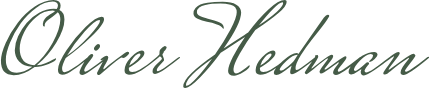
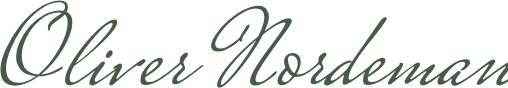
Rätta efternamnet till Nordeman i namnteckning och mejlsignatur

Changed region(s): [[0.0, 0.0, 1.0, 1.0], [0.7576, 0.1591, 0.7879, 0.25], [0.0606, 0.0455, 0.0909, 0.0682]]

diff --git a/index.html b/index.html
@@ -878,7 +878,7 @@ html.motion .me-sig.signed path{animation:sigDraw 2.2s cubic-bezier(.6,.05,.3,1)
         <ol><li>Ni fyller i formuläret – cirka en minut</li><li>Vi går igenom sajten</li><li>Ni får svar inom några arbetsdagar</li></ol>
         <div class="me">
           <div class="me-pic"><img src="oliver.jpg?v=2" alt="Oliver, grundare av Webbglans" width="84" height="84" loading="lazy"></div>
-          <div><p class="me-name">Oliver, Webbglans</p><p class="me-txt">Tvåbarnspappa och lärare med ett livslångt intresse för datorer och IT. Läraryrket har gett mig en känsla för pedagogik och för hur teknik blir enkel att använda – det är det jag tar med in i varje hemsida. Jag driver Webbglans från Holmsund, och ni pratar med mig hela vägen.</p><svg class="me-sig" viewBox="-39 -790 4434 976" role="img" aria-label="Oliver Hedmans namnteckning"><path pathLength="1" d="M596 -648Q647 -623 647 -551Q647 -454 564.5 -316.5Q482 -179 366 -86Q408 -88 453.5 -106.0Q499 -124 527.0 -141.0Q555 -158 558.5 -158.0Q562 -158 562 -150Q562 -130 486.0 -99.5Q410 -69 351 -69H344Q230 15 131 15Q65 15 33.0 -21.5Q1 -58 1.0 -131.0Q1 -204 49.5 -313.0Q98 -422 172.5 -518.5Q247 -615 346.0 -682.5Q445 -750 536 -750Q573 -750 590.5 -734.0Q608 -718 608.0 -693.0Q608 -668 596 -648ZM446 -498 447 -491Q447 -479 440 -479Q427 -479 427.0 -506.5Q427 -534 446.5 -557.0Q466 -580 503.0 -603.5Q540 -627 552 -638Q536 -642 526 -642Q440 -642 361.0 -577.5Q282 -513 237.0 -422.5Q192 -332 192 -256Q192 -96 341 -86Q447 -172 526.0 -313.0Q605 -454 605 -550Q605 -601 579 -624Q561 -604 525.5 -579.5Q490 -555 468.0 -535.5Q446 -516 446 -498ZM162 -10Q236 -10 320 -70Q230 -77 186.0 -124.0Q142 -171 142.0 -239.5Q142 -308 175.5 -381.5Q209 -455 262.0 -516.5Q315 -578 389.5 -619.0Q464 -660 539 -660Q554 -660 568 -657Q581 -676 581.0 -695.5Q581 -715 565.0 -724.0Q549 -733 528 -733Q447 -733 358.0 -668.5Q269 -604 203.0 -512.0Q137 -420 94.0 -316.5Q51 -213 51 -145Q51 -10 162 -10Z M880 -166Q887 -171 893.0 -171.0Q899 -171 899 -164V-162Q795 -76 741 -42Q671 11 623 11Q581 11 581 -39Q581 -106 667.5 -237.5Q754 -369 862.0 -474.0Q970 -579 1025 -579Q1050 -579 1050 -557Q1050 -502 918.5 -375.5Q787 -249 660 -160Q623 -89 623.0 -52.0Q623 -15 649.0 -15.0Q675 -15 717 -45Q788 -87 855 -145ZM1000 -547Q958 -547 851.0 -426.0Q744 -305 674 -184Q789 -266 899.0 -384.5Q1009 -503 1009 -538Q1009 -547 1000 -547Z M988.5 -302.0Q998 -302 1003.5 -296.0Q1009 -290 1009.0 -279.0Q1009 -268 994.0 -251.0Q979 -234 968.0 -234.0Q957 -234 952.0 -240.5Q947 -247 947.0 -255.5Q947 -264 963.0 -283.0Q979 -302 988.5 -302.0ZM1071 -167Q1079 -172 1083.5 -172.0Q1088 -172 1088 -166V-163Q1092 -163 1034.5 -119.0Q977 -75 911.5 -31.0Q846 13 829 13Q800 13 800 -11Q800 -40 850.0 -120.5Q900 -201 923 -201Q940 -201 940.0 -188.0Q940 -175 894.0 -117.0Q848 -59 848 -34Q848 -20 858.5 -20.0Q869 -20 911 -48Q986 -98 1049 -149Z M1245 -159 1229 -166Q1210 -166 1022 -3Q1004 13 995.5 13.0Q987 13 982.5 7.0Q978 1 978.0 -6.5Q978 -14 1012.0 -74.5Q1046 -135 1046.0 -139.5Q1046 -144 1042 -144Q1028 -137 1021.0 -137.0Q1014 -137 1014.0 -141.5Q1014 -146 1018 -150Q1060 -183 1076.5 -183.0Q1093 -183 1093.0 -164.0Q1093 -145 1068.0 -102.5Q1043 -60 1043.0 -53.0Q1043 -46 1046.5 -46.0Q1050 -46 1055.0 -50.0Q1060 -54 1108 -96Q1271 -224 1286 -224Q1287 -224 1287 -224Q1293 -224 1299.0 -220.0Q1305 -216 1305.0 -208.0Q1305 -200 1282.0 -179.5Q1259 -159 1245 -159Z M1582 -166Q1589 -171 1595.0 -171.0Q1601 -171 1601 -164V-162Q1497 -76 1428.0 -33.0Q1359 10 1303 10Q1258 10 1258 -34Q1258 -99 1324.0 -167.5Q1390 -236 1435 -236Q1460 -236 1460 -208Q1455 -153 1302 -60V-50Q1302 -17 1336.5 -17.0Q1371 -17 1411 -40Q1489 -86 1557 -145ZM1409 -205Q1387 -205 1352.5 -168.0Q1318 -131 1306 -84Q1354 -113 1387.0 -145.5Q1420 -178 1420.0 -191.5Q1420 -205 1409 -205Z M1804 -166Q1811 -171 1817.0 -171.0Q1823 -171 1823 -164V-162Q1748 -102 1675.0 -49.5Q1602 3 1568 3Q1543 3 1543.0 -24.0Q1543 -51 1567.0 -78.0Q1591 -105 1614.5 -125.0Q1638 -145 1638.0 -151.5Q1638 -158 1630.5 -166.5Q1623 -175 1618 -178Q1601 -161 1544 -116L1540 -131Q1603 -181 1613 -198V-207Q1613 -232 1618.0 -241.0Q1623 -250 1642.0 -266.0Q1661 -282 1668.0 -282.0Q1675 -282 1680.5 -277.0Q1686 -272 1686.0 -267.0Q1686 -262 1682.5 -255.5Q1679 -249 1675.5 -244.5Q1672 -240 1666.0 -233.5Q1660 -227 1658.5 -224.5Q1657 -222 1655.5 -216.0Q1654 -210 1649.0 -206.0Q1644 -202 1644.0 -196.0Q1644 -190 1652.0 -169.5Q1660 -149 1660.0 -139.5Q1660 -130 1623.0 -94.5Q1586 -59 1586 -37Q1586 -25 1597 -25Q1611 -25 1649 -50L1661 -58Q1726 -103 1783 -149Z M2907 -732Q2907 -688 2824.0 -617.0Q2741 -546 2588 -444Q2495 -319 2430.5 -205.0Q2366 -91 2366.0 -47.0Q2366 -3 2391 -3Q2409 -3 2440.5 -22.0Q2472 -41 2494 -60L2516 -79Q2522 -86 2527.0 -86.0Q2532 -86 2532 -82Q2532 -56 2468.0 -18.0Q2404 20 2372 20Q2311 20 2311.0 -27.5Q2311 -75 2359.0 -170.0Q2407 -265 2483 -374Q2318 -267 2236 -212Q2130 -67 2025.0 39.5Q1920 146 1878 146Q1855 146 1855 129Q1855 73 1940.5 -8.0Q2026 -89 2178 -195Q2272 -329 2335.5 -449.5Q2399 -570 2399 -625Q2399 -688 2336 -702Q2287 -714 2233.5 -714.0Q2180 -714 2148.5 -711.0Q2117 -708 2079.0 -699.5Q2041 -691 2017.5 -672.0Q1994 -653 1994 -626Q1994 -595 2048.5 -577.0Q2103 -559 2170.5 -541.0Q2238 -523 2257 -497Q2265 -488 2268 -464Q2268 -457 2263.5 -457.0Q2259 -457 2255 -464Q2246 -485 2197.5 -501.5Q2149 -518 2096.5 -527.5Q2044 -537 2001.5 -558.5Q1959 -580 1959.0 -612.0Q1959 -644 1980.0 -667.5Q2001 -691 2029.5 -703.0Q2058 -715 2102 -722Q2168 -731 2256.5 -731.0Q2345 -731 2394.5 -702.0Q2444 -673 2444 -621Q2444 -510 2266 -255Q2314 -287 2402.0 -344.5Q2490 -402 2515 -419Q2618 -559 2721.5 -654.0Q2825 -749 2889 -749Q2907 -749 2907 -732ZM1890 123Q1918 123 1990.5 44.5Q2063 -34 2148 -152Q1883 34 1883 114Q1883 123 1890 123ZM2865 -726Q2837 -726 2771.0 -660.5Q2705 -595 2625 -492Q2871 -660 2871 -720Q2871 -726 2865 -726Z M2915 -166Q2922 -171 2928.0 -171.0Q2934 -171 2934 -164V-162Q2830 -76 2761.0 -33.0Q2692 10 2636 10Q2591 10 2591 -34Q2591 -99 2657.0 -167.5Q2723 -236 2768 -236Q2793 -236 2793 -208Q2788 -153 2635 -60V-50Q2635 -17 2669.5 -17.0Q2704 -17 2744 -40Q2822 -86 2890 -145ZM2742 -205Q2720 -205 2685.5 -168.0Q2651 -131 2639 -84Q2687 -113 2720.0 -145.5Q2753 -178 2753.0 -191.5Q2753 -205 2742 -205Z M2988 -143 3020 -192Q3017 -193 3014 -193Q2972 -193 2904.0 -129.0Q2836 -65 2836 -39Q2836 -32 2844 -32Q2869 -32 2920.0 -74.5Q2971 -117 2988 -143ZM3211 -162Q3003 6 2959 6Q2942 6 2942.0 -14.0Q2942 -34 2957 -81Q2957 -82 2955 -82Q2840 13 2802 13Q2776 13 2776 -6Q2776 -48 2866.5 -129.0Q2957 -210 3011 -210Q3018 -210 3026 -200Q3049 -234 3284 -569Q3309 -600 3324.5 -600.0Q3340 -600 3340 -590Q3340 -565 3168 -354Q3104 -274 3050.5 -187.5Q2997 -101 2997 -56Q2997 -37 3008 -37Q3021 -37 3054 -60Q3122 -109 3173 -150L3192 -166Q3199 -171 3205.0 -171.0Q3211 -171 3211 -164Z M3197 -174 3195 -185Q3195 -190 3216 -190Q3228 -190 3228.0 -175.0Q3228 -160 3193.5 -108.5Q3159 -57 3159.0 -55.0Q3159 -53 3163.0 -53.0Q3167 -53 3255.5 -123.0Q3344 -193 3362.0 -193.0Q3380 -193 3380.0 -180.5Q3380 -168 3370.0 -152.5Q3360 -137 3328.0 -96.5Q3296 -56 3294.0 -53.0Q3292 -50 3292.0 -46.0Q3292 -42 3298.5 -42.0Q3305 -42 3397.0 -110.0Q3489 -178 3502.0 -178.0Q3515 -178 3515 -167Q3515 -147 3471.0 -97.0Q3427 -47 3427.0 -33.5Q3427 -20 3437.5 -20.0Q3448 -20 3490 -48Q3565 -98 3628 -149L3650 -167Q3658 -172 3663.5 -172.0Q3669 -172 3669 -166V-163Q3458 13 3408 13Q3379 13 3379 -11Q3379 -31 3408.0 -70.0Q3437 -109 3437.0 -112.5Q3437 -116 3434.5 -116.0Q3432 -116 3352.5 -59.0Q3273 -2 3258 -2Q3251 -2 3246.0 -7.5Q3241 -13 3241 -19Q3241 -37 3284 -92Q3327 -146 3327 -151Q3327 -156 3321 -156Q3314 -156 3179 -46L3129 -6Q3116 5 3109.5 5.0Q3103 5 3097.0 1.5Q3091 -2 3091.0 -9.0Q3091 -16 3108.5 -43.0Q3126 -70 3154 -109Q3197 -167 3197 -174Z M3752 -120Q3746 -120 3746.0 -124.5Q3746 -129 3753 -135Q3786 -162 3786 -184Q3786 -198 3761 -200Q3716 -199 3653.5 -135.0Q3591 -71 3591 -39Q3591 -28 3603.5 -28.0Q3616 -28 3637 -45Q3656 -57 3708 -105Q3720 -117 3731 -117Q3745 -117 3745 -104Q3745 -99 3742.0 -96.0Q3739 -93 3731.0 -83.5Q3723 -74 3717 -66Q3699 -40 3699 -32Q3699 -12 3715 -12Q3736 -12 3794.0 -50.5Q3852 -89 3900 -128L3948 -166Q3955 -171 3961.0 -171.0Q3967 -171 3967 -164V-162Q3890 -97 3804.5 -40.0Q3719 17 3692 17Q3660 17 3660 -17Q3660 -25 3663.0 -32.0Q3666 -39 3666.0 -42.0Q3666 -45 3664 -46Q3661 -46 3625.5 -19.0Q3590 8 3563.5 8.0Q3537 8 3537.0 -20.0Q3537 -48 3574.5 -95.5Q3612 -143 3675.0 -182.0Q3738 -221 3798 -221Q3812 -221 3821.5 -214.0Q3831 -207 3831.0 -192.5Q3831 -178 3802.0 -149.0Q3773 -120 3752 -120Z M4355 -163Q4144 13 4094 13Q4065 13 4065.0 -11.0Q4065 -35 4086.5 -68.0Q4108 -101 4129.5 -126.5Q4151 -152 4151.0 -157.0Q4151 -162 4148 -162Q4055 -100 4037.5 -86.0Q4020 -72 3980.5 -40.0Q3941 -8 3929.0 0.0Q3917 8 3903 8Q3889 8 3889 -4Q3889 -18 3945 -92Q3999 -166 3999 -175Q3999 -177 3995.5 -177.0Q3992 -177 3909 -116L3905 -131Q3976 -188 4001.0 -204.0Q4026 -220 4041.5 -220.0Q4057 -220 4057 -205Q4057 -195 4000.5 -123.5Q3944 -52 3944.0 -46.5Q3944 -41 3947.5 -41.0Q3951 -41 4061.5 -121.5Q4172 -202 4196 -202Q4203 -202 4209.5 -196.5Q4216 -191 4216 -186Q4216 -174 4163.0 -106.5Q4110 -39 4110.0 -30.0Q4110 -21 4122.5 -21.0Q4135 -21 4176 -48Q4251 -97 4314 -149L4336 -167Q4343 -172 4349.0 -172.0Q4355 -172 4355 -166Z"/></svg><p class="me-txt"><a href="mailto:hej@webbglans.se">hej@webbglans.se</a></p></div>
+          <div><p class="me-name">Oliver, Webbglans</p><p class="me-txt">Tvåbarnspappa och lärare med ett livslångt intresse för datorer och IT. Läraryrket har gett mig en känsla för pedagogik och för hur teknik blir enkel att använda – det är det jag tar med in i varje hemsida. Jag driver Webbglans från Holmsund, och ni pratar med mig hela vägen.</p><svg class="me-sig" viewBox="-39 -790 4824 862" role="img" aria-label="Oliver Nordemans namnteckning"><path pathLength="1" d="M596 -648Q647 -623 647 -551Q647 -454 564.5 -316.5Q482 -179 366 -86Q408 -88 453.5 -106.0Q499 -124 527.0 -141.0Q555 -158 558.5 -158.0Q562 -158 562 -150Q562 -130 486.0 -99.5Q410 -69 351 -69H344Q230 15 131 15Q65 15 33.0 -21.5Q1 -58 1.0 -131.0Q1 -204 49.5 -313.0Q98 -422 172.5 -518.5Q247 -615 346.0 -682.5Q445 -750 536 -750Q573 -750 590.5 -734.0Q608 -718 608.0 -693.0Q608 -668 596 -648ZM446 -498 447 -491Q447 -479 440 -479Q427 -479 427.0 -506.5Q427 -534 446.5 -557.0Q466 -580 503.0 -603.5Q540 -627 552 -638Q536 -642 526 -642Q440 -642 361.0 -577.5Q282 -513 237.0 -422.5Q192 -332 192 -256Q192 -96 341 -86Q447 -172 526.0 -313.0Q605 -454 605 -550Q605 -601 579 -624Q561 -604 525.5 -579.5Q490 -555 468.0 -535.5Q446 -516 446 -498ZM162 -10Q236 -10 320 -70Q230 -77 186.0 -124.0Q142 -171 142.0 -239.5Q142 -308 175.5 -381.5Q209 -455 262.0 -516.5Q315 -578 389.5 -619.0Q464 -660 539 -660Q554 -660 568 -657Q581 -676 581.0 -695.5Q581 -715 565.0 -724.0Q549 -733 528 -733Q447 -733 358.0 -668.5Q269 -604 203.0 -512.0Q137 -420 94.0 -316.5Q51 -213 51 -145Q51 -10 162 -10Z M880 -166Q887 -171 893.0 -171.0Q899 -171 899 -164V-162Q795 -76 741 -42Q671 11 623 11Q581 11 581 -39Q581 -106 667.5 -237.5Q754 -369 862.0 -474.0Q970 -579 1025 -579Q1050 -579 1050 -557Q1050 -502 918.5 -375.5Q787 -249 660 -160Q623 -89 623.0 -52.0Q623 -15 649.0 -15.0Q675 -15 717 -45Q788 -87 855 -145ZM1000 -547Q958 -547 851.0 -426.0Q744 -305 674 -184Q789 -266 899.0 -384.5Q1009 -503 1009 -538Q1009 -547 1000 -547Z M988.5 -302.0Q998 -302 1003.5 -296.0Q1009 -290 1009.0 -279.0Q1009 -268 994.0 -251.0Q979 -234 968.0 -234.0Q957 -234 952.0 -240.5Q947 -247 947.0 -255.5Q947 -264 963.0 -283.0Q979 -302 988.5 -302.0ZM1071 -167Q1079 -172 1083.5 -172.0Q1088 -172 1088 -166V-163Q1092 -163 1034.5 -119.0Q977 -75 911.5 -31.0Q846 13 829 13Q800 13 800 -11Q800 -40 850.0 -120.5Q900 -201 923 -201Q940 -201 940.0 -188.0Q940 -175 894.0 -117.0Q848 -59 848 -34Q848 -20 858.5 -20.0Q869 -20 911 -48Q986 -98 1049 -149Z M1245 -159 1229 -166Q1210 -166 1022 -3Q1004 13 995.5 13.0Q987 13 982.5 7.0Q978 1 978.0 -6.5Q978 -14 1012.0 -74.5Q1046 -135 1046.0 -139.5Q1046 -144 1042 -144Q1028 -137 1021.0 -137.0Q1014 -137 1014.0 -141.5Q1014 -146 1018 -150Q1060 -183 1076.5 -183.0Q1093 -183 1093.0 -164.0Q1093 -145 1068.0 -102.5Q1043 -60 1043.0 -53.0Q1043 -46 1046.5 -46.0Q1050 -46 1055.0 -50.0Q1060 -54 1108 -96Q1271 -224 1286 -224Q1287 -224 1287 -224Q1293 -224 1299.0 -220.0Q1305 -216 1305.0 -208.0Q1305 -200 1282.0 -179.5Q1259 -159 1245 -159Z M1582 -166Q1589 -171 1595.0 -171.0Q1601 -171 1601 -164V-162Q1497 -76 1428.0 -33.0Q1359 10 1303 10Q1258 10 1258 -34Q1258 -99 1324.0 -167.5Q1390 -236 1435 -236Q1460 -236 1460 -208Q1455 -153 1302 -60V-50Q1302 -17 1336.5 -17.0Q1371 -17 1411 -40Q1489 -86 1557 -145ZM1409 -205Q1387 -205 1352.5 -168.0Q1318 -131 1306 -84Q1354 -113 1387.0 -145.5Q1420 -178 1420.0 -191.5Q1420 -205 1409 -205Z M1804 -166Q1811 -171 1817.0 -171.0Q1823 -171 1823 -164V-162Q1748 -102 1675.0 -49.5Q1602 3 1568 3Q1543 3 1543.0 -24.0Q1543 -51 1567.0 -78.0Q1591 -105 1614.5 -125.0Q1638 -145 1638.0 -151.5Q1638 -158 1630.5 -166.5Q1623 -175 1618 -178Q1601 -161 1544 -116L1540 -131Q1603 -181 1613 -198V-207Q1613 -232 1618.0 -241.0Q1623 -250 1642.0 -266.0Q1661 -282 1668.0 -282.0Q1675 -282 1680.5 -277.0Q1686 -272 1686.0 -267.0Q1686 -262 1682.5 -255.5Q1679 -249 1675.5 -244.5Q1672 -240 1666.0 -233.5Q1660 -227 1658.5 -224.5Q1657 -222 1655.5 -216.0Q1654 -210 1649.0 -206.0Q1644 -202 1644.0 -196.0Q1644 -190 1652.0 -169.5Q1660 -149 1660.0 -139.5Q1660 -130 1623.0 -94.5Q1586 -59 1586 -37Q1586 -25 1597 -25Q1611 -25 1649 -50L1661 -58Q1726 -103 1783 -149Z M2162 -379Q2155 -379 2151.5 -385.0Q2148 -391 2147 -392Q2136 -381 2116.5 -364.0Q2097 -347 2047.0 -319.0Q1997 -291 1958 -291Q1893 -291 1893 -341Q1893 -395 1962.0 -481.0Q2031 -567 2133.5 -634.5Q2236 -702 2317 -702Q2364 -702 2388.5 -674.0Q2413 -646 2413.0 -601.5Q2413 -557 2374 -474Q2530 -590 2591 -590Q2603 -590 2611.0 -583.0Q2619 -576 2619 -564Q2619 -544 2537.5 -435.0Q2456 -326 2374.0 -207.0Q2292 -88 2292 -43Q2292 -15 2323 -15Q2370 -15 2456 -101Q2469 -114 2478 -114Q2484 -114 2484.0 -105.5Q2484 -97 2452.0 -68.5Q2420 -40 2372.5 -13.0Q2325 14 2290 14Q2243 14 2243.0 -25.5Q2243 -65 2292.5 -147.5Q2342 -230 2402 -308Q2561 -513 2561 -547Q2561 -553 2554 -553Q2497 -553 2360 -445Q2283 -294 2150.5 -131.0Q2018 32 1972 32Q1947 32 1947 11Q1947 -54 2059.0 -182.5Q2171 -311 2317 -429Q2372 -539 2372 -601Q2372 -677 2291 -677Q2229 -677 2141.5 -616.5Q2054 -556 1992.0 -479.0Q1930 -402 1930 -357Q1930 -319 1980 -319Q2014 -319 2077.0 -360.0Q2140 -401 2149 -417Q2192 -493 2198 -501Q2219 -534 2232 -534Q2237 -534 2238.0 -527.0Q2239 -520 2236.5 -513.5Q2234 -507 2228.0 -497.5Q2222 -488 2217.0 -480.5Q2212 -473 2203.5 -461.0Q2195 -449 2188.5 -440.0Q2182 -431 2178 -423Q2172 -411 2172.0 -395.0Q2172 -379 2162 -379ZM1985 8Q2012 7 2119.5 -126.5Q2227 -260 2299 -394Q2173 -286 2077.0 -170.0Q1981 -54 1981 1Q1981 8 1985 8Z M2673 -86Q2729 -86 2807 -149L2824 -144Q2726 -62 2655 -62Q2647 -62 2643 -63Q2616 -30 2584.0 -9.5Q2552 11 2528 11Q2490 11 2490.0 -31.5Q2490 -74 2561 -145Q2549 -174 2549.0 -206.0Q2549 -238 2572.0 -258.0Q2595 -278 2625.5 -278.0Q2656 -278 2677.0 -258.0Q2698 -238 2698 -201Q2698 -144 2661 -87Q2665 -86 2673 -86ZM2641 -96Q2672 -148 2672.0 -184.5Q2672 -221 2654.0 -238.5Q2636 -256 2619 -256Q2584 -256 2584.0 -220.0Q2584 -184 2600.0 -148.5Q2616 -113 2641 -96ZM2531 -37Q2531 -17 2557.0 -17.0Q2583 -17 2623 -70Q2596 -84 2575 -119Q2531 -71 2531 -37Z M3048 -166Q3055 -171 3061.0 -171.0Q3067 -171 3067 -164V-162Q2992 -102 2919.0 -49.5Q2846 3 2812 3Q2787 3 2787.0 -24.0Q2787 -51 2811.0 -78.0Q2835 -105 2858.5 -125.0Q2882 -145 2882.0 -151.5Q2882 -158 2874.5 -166.5Q2867 -175 2862 -178Q2845 -161 2788 -116L2784 -131Q2847 -181 2857 -198V-207Q2857 -232 2862.0 -241.0Q2867 -250 2886.0 -266.0Q2905 -282 2912.0 -282.0Q2919 -282 2924.5 -277.0Q2930 -272 2930.0 -267.0Q2930 -262 2926.5 -255.5Q2923 -249 2919.5 -244.5Q2916 -240 2910.0 -233.5Q2904 -227 2902.5 -224.5Q2901 -222 2899.5 -216.0Q2898 -210 2893.0 -206.0Q2888 -202 2888.0 -196.0Q2888 -190 2896.0 -169.5Q2904 -149 2904.0 -139.5Q2904 -130 2867.0 -94.5Q2830 -59 2830 -37Q2830 -25 2841 -25Q2855 -25 2893 -50L2905 -58Q2970 -103 3027 -149Z M3120 -143 3152 -192Q3149 -193 3146 -193Q3104 -193 3036.0 -129.0Q2968 -65 2968 -39Q2968 -32 2976 -32Q3001 -32 3052.0 -74.5Q3103 -117 3120 -143ZM3343 -162Q3135 6 3091 6Q3074 6 3074.0 -14.0Q3074 -34 3089 -81Q3089 -82 3087 -82Q2972 13 2934 13Q2908 13 2908 -6Q2908 -48 2998.5 -129.0Q3089 -210 3143 -210Q3150 -210 3158 -200Q3181 -234 3416 -569Q3441 -600 3456.5 -600.0Q3472 -600 3472 -590Q3472 -565 3300 -354Q3236 -274 3182.5 -187.5Q3129 -101 3129 -56Q3129 -37 3140 -37Q3153 -37 3186 -60Q3254 -109 3305 -150L3324 -166Q3331 -171 3337.0 -171.0Q3343 -171 3343 -164Z M3581 -166Q3588 -171 3594.0 -171.0Q3600 -171 3600 -164V-162Q3496 -76 3427.0 -33.0Q3358 10 3302 10Q3257 10 3257 -34Q3257 -99 3323.0 -167.5Q3389 -236 3434 -236Q3459 -236 3459 -208Q3454 -153 3301 -60V-50Q3301 -17 3335.5 -17.0Q3370 -17 3410 -40Q3488 -86 3556 -145ZM3408 -205Q3386 -205 3351.5 -168.0Q3317 -131 3305 -84Q3353 -113 3386.0 -145.5Q3419 -178 3419.0 -191.5Q3419 -205 3408 -205Z M3587 -174 3585 -185Q3585 -190 3606 -190Q3618 -190 3618.0 -175.0Q3618 -160 3583.5 -108.5Q3549 -57 3549.0 -55.0Q3549 -53 3553.0 -53.0Q3557 -53 3645.5 -123.0Q3734 -193 3752.0 -193.0Q3770 -193 3770.0 -180.5Q3770 -168 3760.0 -152.5Q3750 -137 3718.0 -96.5Q3686 -56 3684.0 -53.0Q3682 -50 3682.0 -46.0Q3682 -42 3688.5 -42.0Q3695 -42 3787.0 -110.0Q3879 -178 3892.0 -178.0Q3905 -178 3905 -167Q3905 -147 3861.0 -97.0Q3817 -47 3817.0 -33.5Q3817 -20 3827.5 -20.0Q3838 -20 3880 -48Q3955 -98 4018 -149L4040 -167Q4048 -172 4053.5 -172.0Q4059 -172 4059 -166V-163Q3848 13 3798 13Q3769 13 3769 -11Q3769 -31 3798.0 -70.0Q3827 -109 3827.0 -112.5Q3827 -116 3824.5 -116.0Q3822 -116 3742.5 -59.0Q3663 -2 3648 -2Q3641 -2 3636.0 -7.5Q3631 -13 3631 -19Q3631 -37 3674 -92Q3717 -146 3717 -151Q3717 -156 3711 -156Q3704 -156 3569 -46L3519 -6Q3506 5 3499.5 5.0Q3493 5 3487.0 1.5Q3481 -2 3481.0 -9.0Q3481 -16 3498.5 -43.0Q3516 -70 3544 -109Q3587 -167 3587 -174Z M4142 -120Q4136 -120 4136.0 -124.5Q4136 -129 4143 -135Q4176 -162 4176 -184Q4176 -198 4151 -200Q4106 -199 4043.5 -135.0Q3981 -71 3981 -39Q3981 -28 3993.5 -28.0Q4006 -28 4027 -45Q4046 -57 4098 -105Q4110 -117 4121 -117Q4135 -117 4135 -104Q4135 -99 4132.0 -96.0Q4129 -93 4121.0 -83.5Q4113 -74 4107 -66Q4089 -40 4089 -32Q4089 -12 4105 -12Q4126 -12 4184.0 -50.5Q4242 -89 4290 -128L4338 -166Q4345 -171 4351.0 -171.0Q4357 -171 4357 -164V-162Q4280 -97 4194.5 -40.0Q4109 17 4082 17Q4050 17 4050 -17Q4050 -25 4053.0 -32.0Q4056 -39 4056.0 -42.0Q4056 -45 4054 -46Q4051 -46 4015.5 -19.0Q3980 8 3953.5 8.0Q3927 8 3927.0 -20.0Q3927 -48 3964.5 -95.5Q4002 -143 4065.0 -182.0Q4128 -221 4188 -221Q4202 -221 4211.5 -214.0Q4221 -207 4221.0 -192.5Q4221 -178 4192.0 -149.0Q4163 -120 4142 -120Z M4745 -163Q4534 13 4484 13Q4455 13 4455.0 -11.0Q4455 -35 4476.5 -68.0Q4498 -101 4519.5 -126.5Q4541 -152 4541.0 -157.0Q4541 -162 4538 -162Q4445 -100 4427.5 -86.0Q4410 -72 4370.5 -40.0Q4331 -8 4319.0 0.0Q4307 8 4293 8Q4279 8 4279 -4Q4279 -18 4335 -92Q4389 -166 4389 -175Q4389 -177 4385.5 -177.0Q4382 -177 4299 -116L4295 -131Q4366 -188 4391.0 -204.0Q4416 -220 4431.5 -220.0Q4447 -220 4447 -205Q4447 -195 4390.5 -123.5Q4334 -52 4334.0 -46.5Q4334 -41 4337.5 -41.0Q4341 -41 4451.5 -121.5Q4562 -202 4586 -202Q4593 -202 4599.5 -196.5Q4606 -191 4606 -186Q4606 -174 4553.0 -106.5Q4500 -39 4500.0 -30.0Q4500 -21 4512.5 -21.0Q4525 -21 4566 -48Q4641 -97 4704 -149L4726 -167Q4733 -172 4739.0 -172.0Q4745 -172 4745 -166Z"/></svg><p class="me-txt"><a href="mailto:hej@webbglans.se">hej@webbglans.se</a></p></div>
         </div>
       </div>
       <div>

diff --git a/signatur.html b/signatur.html
@@ -29,7 +29,7 @@ button{font:inherit;font-weight:600;background:#455B47;color:#fff;border:0;borde
 <img src="https://oliverhedman1995-eng.github.io/ombonad-test/oliver.jpg?v=2" width="72" height="72" alt="Oliver" style="display:block;width:72px;height:72px;border-radius:50%;border:0">
 </td>
 <td style="vertical-align:top;padding:0 0 0 16px;border-left:2px solid #F3DE95">
-<img src="https://oliverhedman1995-eng.github.io/ombonad-test/signatur-namn.png" width="150" height="31" alt="Oliver Hedman" style="display:block;width:150px;height:auto;border:0;margin:0 0 4px">
+<img src="https://oliverhedman1995-eng.github.io/ombonad-test/signatur-namn.png?v=2" width="170" height="29" alt="Oliver Nordeman" style="display:block;width:170px;height:auto;border:0;margin:0 0 4px">
 <div style="font-family:Arial,Helvetica,sans-serif;font-size:13px;line-height:1.5;color:#565C55">
 Grundare, <b style="color:#455B47">Webbglans</b><br>
 <a href="mailto:oliver@webbglans.se" style="color:#455B47;text-decoration:none">oliver@webbglans.se</a> · <a href="https://webbglans.se" style="color:#455B47;text-decoration:none">webbglans.se</a><br>
